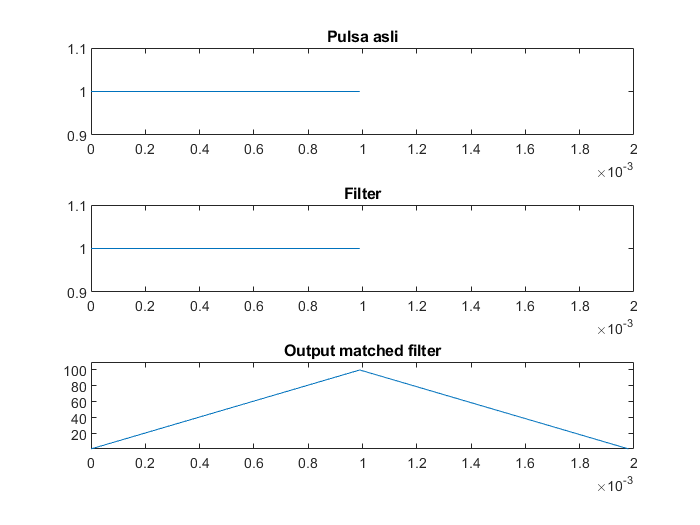
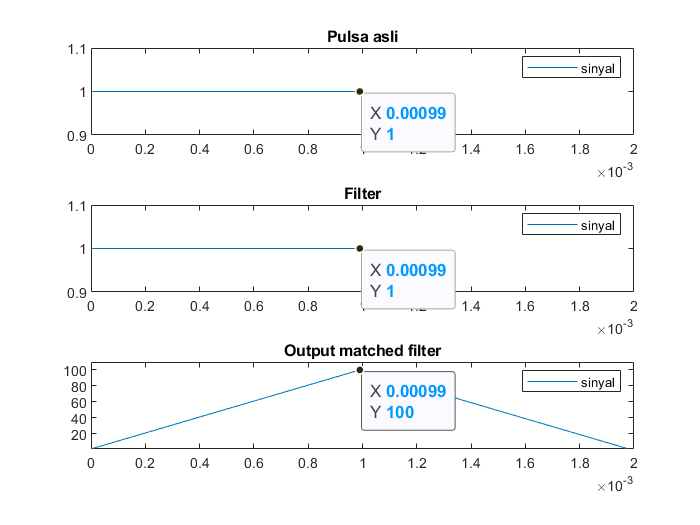
update percobaan ke 2
merapikan setiap figure

diff --git a/P2_deteksi/p2_2.m b/P2_deteksi/p2_2.m
@@ -4,23 +4,26 @@ close all;
 
 global Fd Fs;
 Fd = 1000; Fs = 100000; T = 1/Fd;
-%% 2.2.1. 
+%% P2.2.1. 
 b = round(rand(1, 10));
 s = modul(b, 'bipolar_nrz');
 
 figure('Name','P2 2.1. Bipolar NRZ Matched Filter','NumberTitle','off')
-x = bbchannel(s, 1, 2e-4, 4900);
+x = bbchannel(s, 1, 2e-4, 4900); %PSD No/2 = 2e-4; bw = 4900 Hz
+
+subplot(311), scope(s, 'one-shot', 10*T);
+title('Gelombang asli')
+
 subplot(312), scope(x, 'one-shot', 10*T);
 title('Sinyal dikirim')
 
 y = afilter(x, matched('bipolar_nrz'));
 subplot(313), scope(y, 'one-shot', 10*T);
-title('Output matched filter')
+title('Matched filter')
 
-subplot(311), scope(s, 'one-shot', 10*T);
-title('Gelombang asli')
 
-%% 2.2.2.
+
+%% P2.2.2.
 Fs = 10000;
 b = round(rand(1,10000));
 s = modul(b, 'bipolar_nrz');
@@ -32,14 +35,37 @@ figure('Name','P2 2.2. Plot Matched Filter','NumberTitle','off')
 scope(y(1:300*Fs/Fd), 'continuous', 2*T);
 title('Plot Matched Filter Bipolar NRZ 300 bit pertama');
 
-%% 2.2.3.
-% y = transmit(b, 'bipolar_nrz', 0.5e-4, 4900);
-% st = 0:1/Fs:1/Fd;
-% pe = zeros(1,length(st));
-% for i = 1:length(st)
-%     pe(i) = detect(y, <treshold>, st(i), b);
-%  end;
-% plot(st, pe);
-% xlabel('waktu sampling');
-% ylabel('Bit error rate (BER)');
-% title('BER vs waktu sampling');
+% untuk tabel
+y = transmit(b, 'bipolar_nrz', 0.5*1e-4, 4900); %0.5 1 1.5 2
+ber20 = detect(y, 0, T, b); %treshold = 0
+y = transmit(b, 'bipolar_nrz', 1*1e-4, 4900); %0.5 1 1.5 2
+ber21 = detect(y, 0, T, b);
+y = transmit(b, 'bipolar_nrz', 1.5*1e-4, 4900); %0.5 1 1.5 2
+ber22 = detect(y, 0, T, b);
+y = transmit(b, 'bipolar_nrz', 2*1e-4, 4900); %0.5 1 1.5 2
+ber23 = detect(y, 0, T, b);
+
+%% P2.2.3.
+y = transmit(b, 'bipolar_nrz', 0.5e-4, 4900);
+st = 1e-4:1/Fs:1/Fd;
+pe = zeros(1,length(st));
+for i = 1:length(st)
+    pe(i) = detect(y, 0, st(i), b); %treshold = 0
+ end;
+
+figure('Name','P2 2.3. Plot BER vs waktu sampling','NumberTitle','off')
+plot(st, pe);
+xlabel('waktu sampling');
+ylabel('Bit error rate (BER)');
+title('BER vs waktu sampling');
+
+%% P2.2.4
+y = transmit(b, 'bipolar_nrz', 0.5*1e-4, 1500); %bw=1500 1000 500 350
+ber40 = detect(y, 0, T, b);
+y = transmit(b, 'bipolar_nrz', 0.5*1e-4, 1000); %bw=1500 1000 500 3500
+ber41 = detect(y, 0, T, b);
+y = transmit(b, 'bipolar_nrz', 0.5*1e-4, 500); %bw=1500 1000 500 350
+ber42 = detect(y, 0, T, b);
+y = transmit(b, 'bipolar_nrz', 0.5*1e-4, 350); %bw=1500 1000 500 350
+ber43 = detect(y, 0, T, b);
+

diff --git a/P2_deteksi/p2_1.m b/P2_deteksi/p2_1.m
@@ -34,11 +34,15 @@ s = modul([1 0 0 1 0 1 1], 'bipolar_rz');
 figure('Name','P2-1.3. Bipolar NRZ','NumberTitle','off');
 clf, subplot(211), scope(s, 'one-shot', 7*T);
 title('Sinyal RZ bipolar');
+xlabel('Waktu (detik)')
+ylabel('Amplitudo')
 
 y = afilter(s, matched('bipolar_rz'));
 subplot(212), scope(y, 'one_shot', 7*T);
+ylabel('Amplitudo')
 
 t = 0:1/Fs:(7*T-1/Fs);
 plotyy(t, s, t, y(1:length(t)));
 title('Sinyal RZ bipolar dan output matched filter');
-
+xlabel('Waktu (detik)')
+ylabel('Amplitudo')

diff --git a/P2_deteksi/README_P2.md b/P2_deteksi/README_P2.md
@@ -1,0 +1,6 @@
+# praktikum-lab-telkom-2020
+MK Lab Telekomunikasi 2020 - Bu Devi
+
+arsip pengerjaan laporan praktikum docs
+https://docs.google.com/document/d/1rns2zCRUjzD-Dpjo0HWOhWlWBoCLAscDgoOe2C1zLro/edit?usp=sharing
+

diff --git a/P1_baseband/README_P1.md b/P1_baseband/README_P1.md
@@ -1,0 +1,5 @@
+# praktikum-lab-telkom-2020
+MK Lab Telekomunikasi 2020 - Bu Devi
+
+arsip pengerjaan laporan praktikum docs
+https://docs.google.com/document/d/1KseisATP7PFwKGK8geExoqr5yShUPCeJJgAKg1POp1o/edit?usp=sharing
